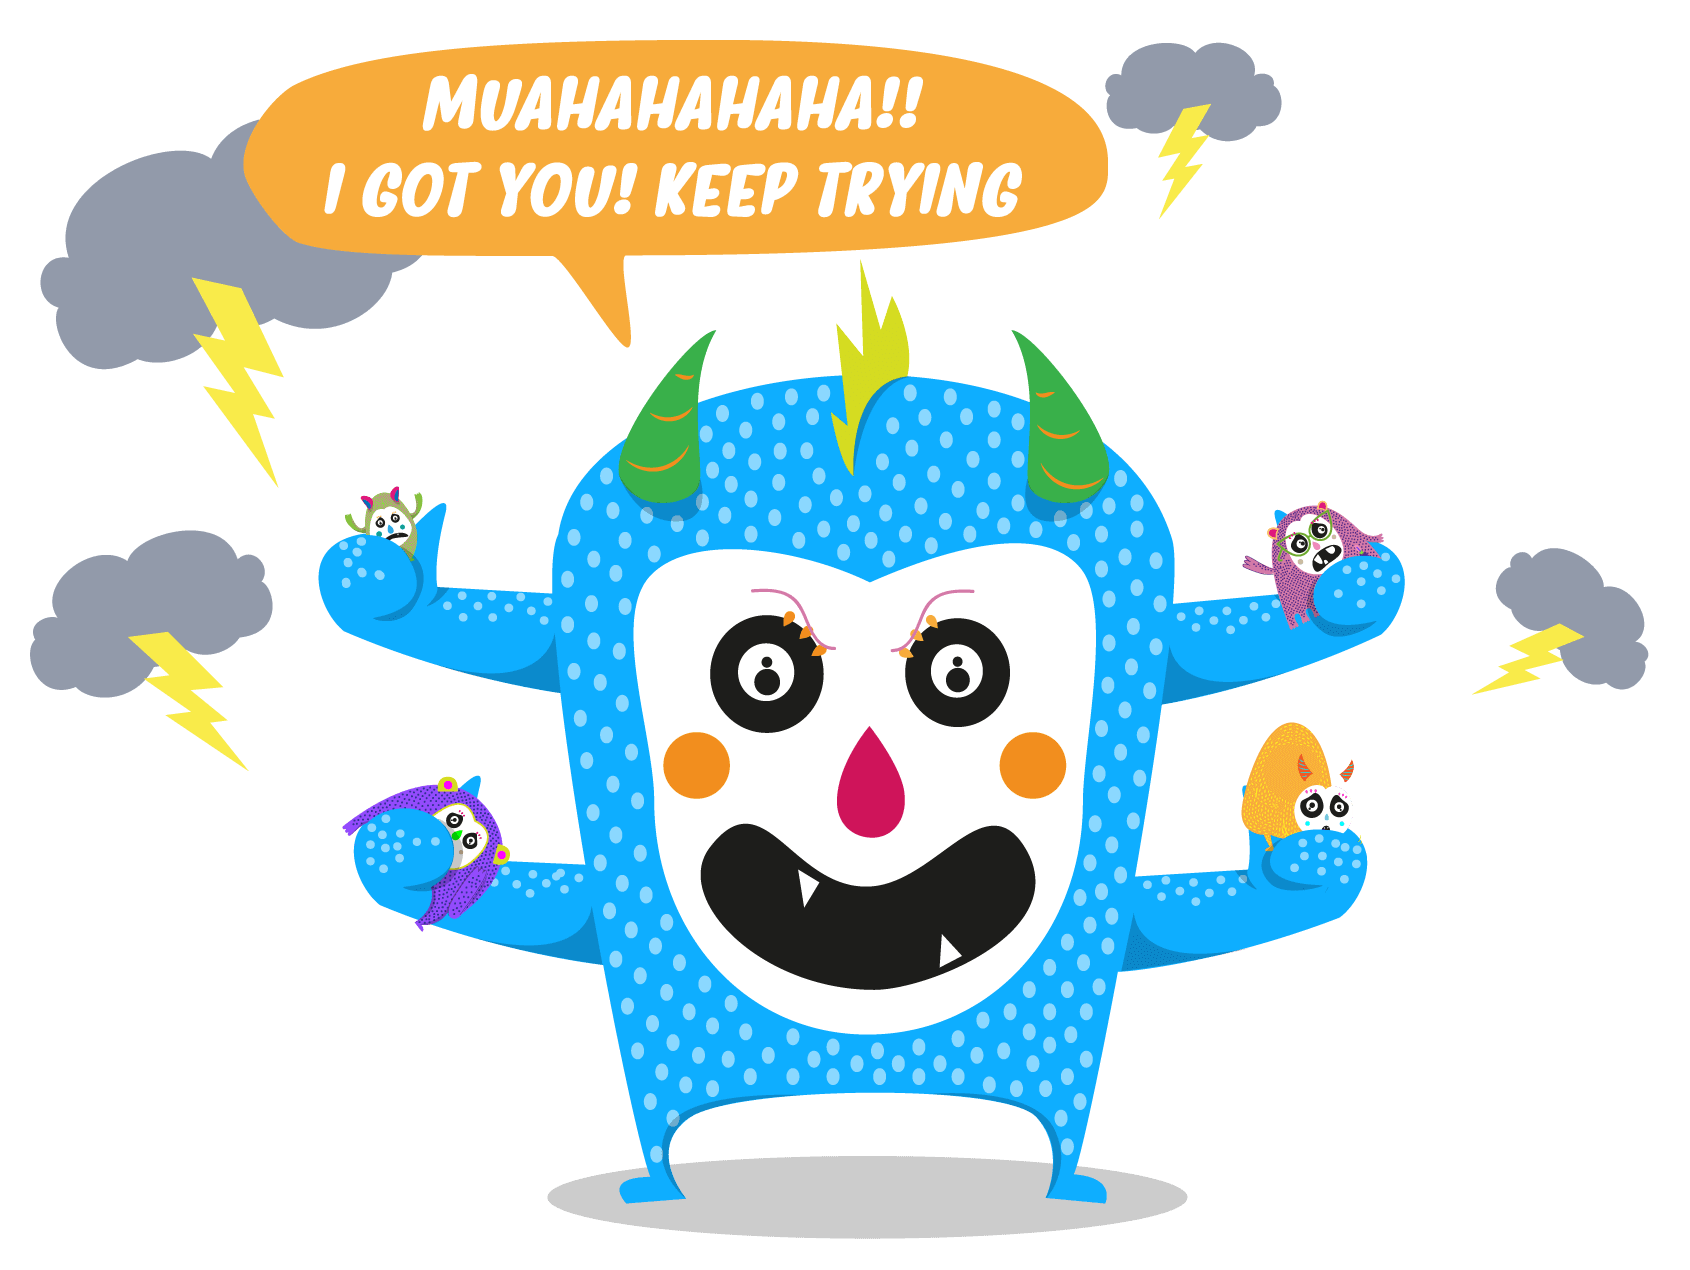
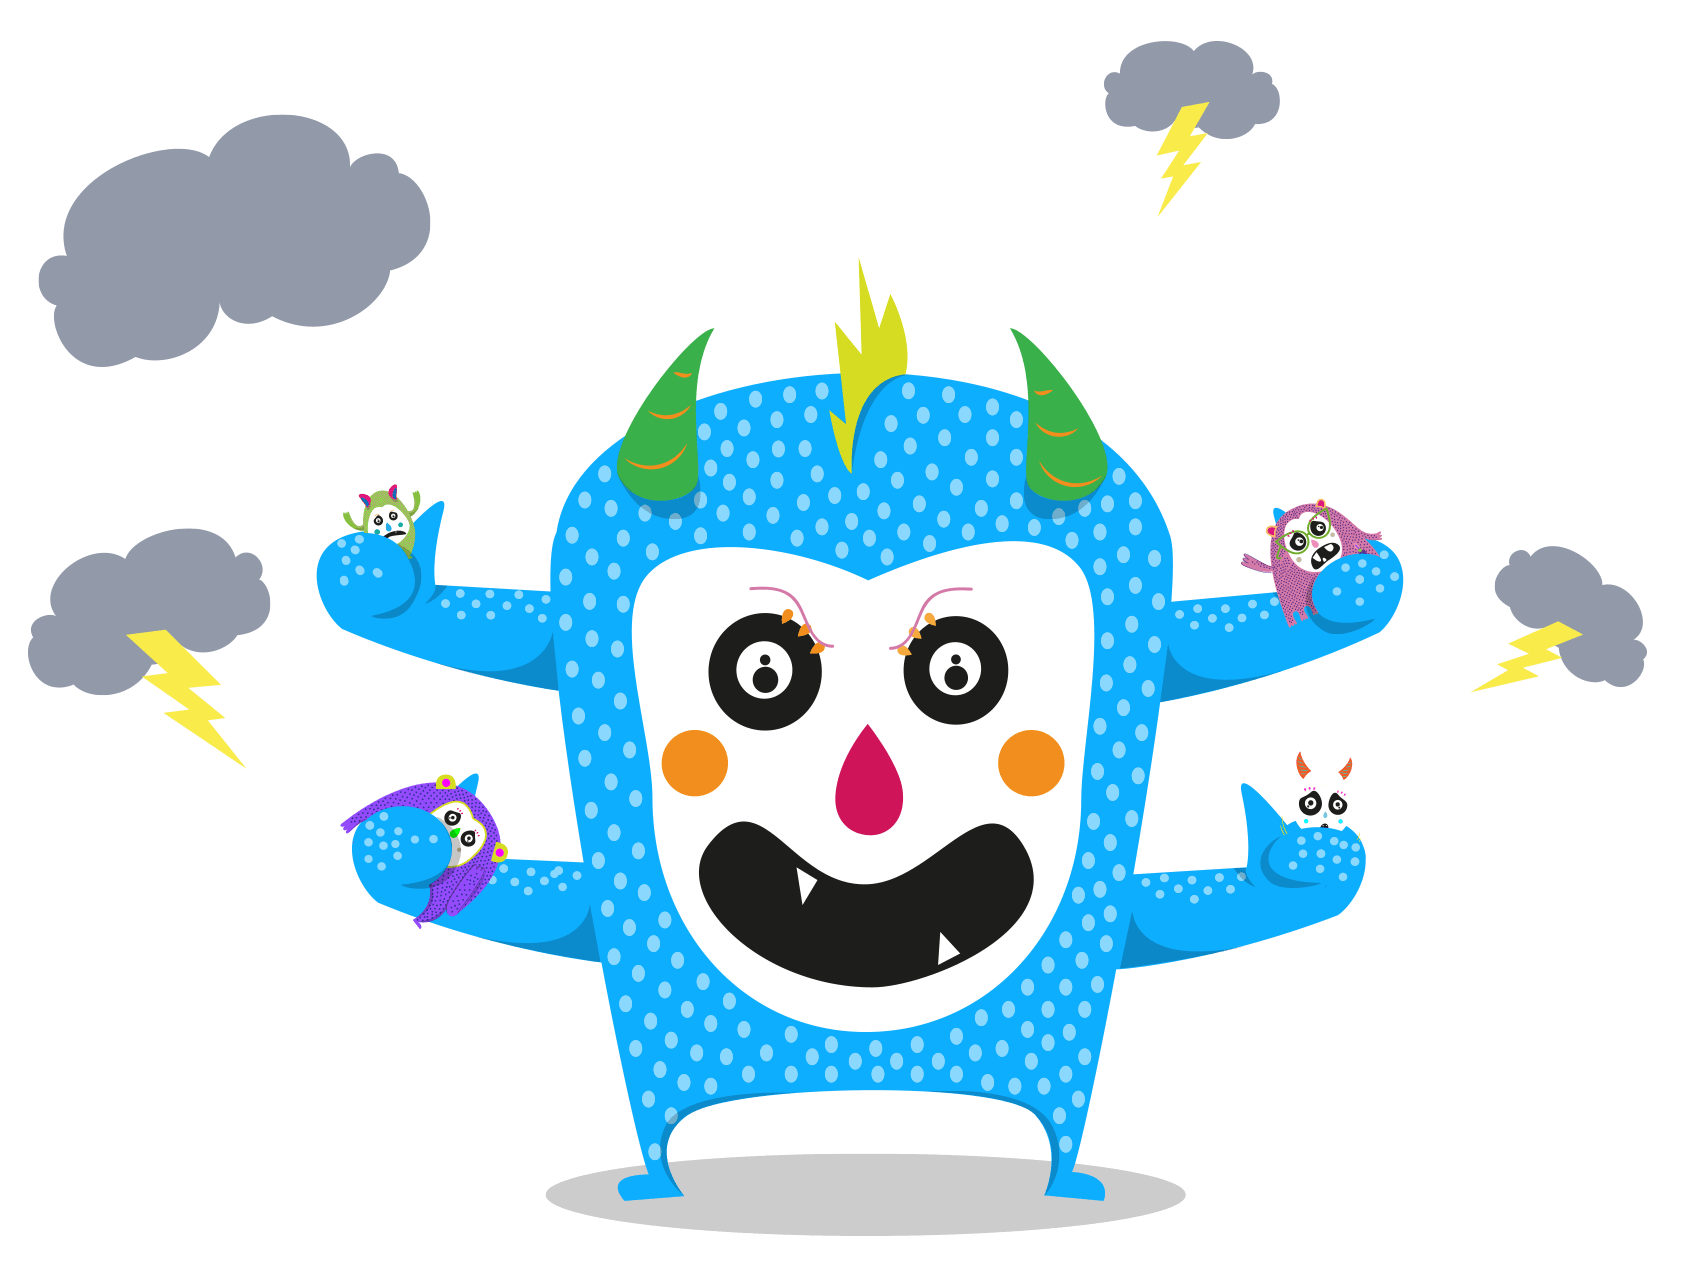
- Challenge Fail Modifications WIP

diff --git a/style.js b/style.js
@@ -1143,7 +1143,8 @@ oxfordFlippedApp.text = {
 	continue : 'Click on the arrow to continue',
 	premiumButton : 'Más recursos en Oxford Premium. ¡Accede ya!',
 	nomarketplaceresource: 'No hay ningún elemento que mostrar',
-	keepworking: 'Don’t worry, keep working to win stars!'
+	keepworking: 'Don’t worry, keep working to win stars!',
+	keeptrying : 'MUAHAHAHAHA!! I GOT YOU! Try again to win stars.'
 }
 
 
@@ -3095,7 +3096,7 @@ oxfordFlippedApp.activityFinalScreenTest = function(currentSection) {
 					if (isChallenge) {
 						var finalSlideBackground = $lastSlide.find('.image_slide').attr('src'),
 								customAnimation = '<div id="lightnings"><div class="box-one"><div class="lightning-one"></div></div><div class="box-two"><div class="lightning-two"></div></div><div class="box-three"><div class="lightning-three"></div></div><div class="box-four"><div class="lightning-four"></div></div></div>',
-								finalSlideContent = '<div id="oxfl-final-slide">'+customAnimation+'<div class="oxfl-final-slide-stars" id="oxfl-final-slide-stars"></div><div class="oxfl-final-slide-fail-buttons"><button class="oxfl-button-bubble oxfl-button-bubble-2 oxfl-js-go-to-start">'+oxfordFlippedApp.text.tryagain+'</button><div class="oxfl-separate-text">'+oxfordFlippedApp.text.or+'</div><button class="oxfl-button-bubble oxfl-button-bubble-3 oxfl-js-close-iframe-inside">'+oxfordFlippedApp.text.exit+'</button></div></div>';
+								finalSlideContent = '<div id="oxfl-final-slide">'+customAnimation+'<div class="oxfl-final-slide-stars" id="oxfl-final-slide-stars"></div><div class="oxfl-bubble-challenge-fail"><span> '+ oxfordFlippedApp.text.keeptrying +' </span></div><div class="oxfl-final-slide-fail-buttons"><button class="oxfl-button-bubble oxfl-button-bubble-2 oxfl-js-go-to-start">'+oxfordFlippedApp.text.tryagain+'</button><div class="oxfl-separate-text">'+oxfordFlippedApp.text.or+'</div><button class="oxfl-button-bubble oxfl-button-bubble-3 oxfl-js-close-iframe-inside">'+oxfordFlippedApp.text.exit+'</button></div></div>';
 						if (finalSlideBackground != '') {
 							$lastSlide.css('background-image', 'url('+finalSlideBackground+')').find('.slide_aux').hide();
 						}

diff --git a/style.css b/style.css
@@ -3736,6 +3736,36 @@ body.body_clase.view-mode #actividad .oxfl-bubble-final-ko {
     left: -20px;
     transform: rotate(-45deg);
     transform-origin: 0 0; }
+body.body_clase.view-mode #actividad .oxfl-bubble-challenge-fail {
+  background: #FBB03B;
+  display: inline-flex;
+  vertical-align: middle;
+  justify-content: center;
+  flex-direction: column;
+  text-align: center;
+  color: #ffffff;
+  font-family: "Myfrida", sans-serif;
+  font-size: 31px;
+  line-height: 1em;
+  font-weight: bold;
+  font-style: italic;
+  border-radius: 40px;
+  max-width: 300px;
+  height: auto;
+  padding: 20px; }
+  body.body_clase.view-mode #actividad .oxfl-bubble-challenge-fail::before {
+    content: '';
+    display: block;
+    width: 0;
+    height: 0;
+    border-left: 20px solid transparent;
+    border-right: 20px solid transparent;
+    border-top: 20px solid #FBB03B;
+    position: absolute;
+    bottom: -20px;
+    left: -20px;
+    transform: rotate(-45deg);
+    transform-origin: 0 0; }
 body.body_clase.view-mode.oxfl-final-slide-on .content-wrapper {
   padding-top: 0;
   padding-bottom: 0; }

diff --git a/scss/pages/_activities_final_2_test.scss b/scss/pages/_activities_final_2_test.scss
@@ -135,6 +135,40 @@ body.body_clase.view-mode {
         transform-origin: 0 0;
       }
     }
+
+    .oxfl-bubble-challenge-fail {
+      background: $color_6;
+      display: inline-flex;
+      vertical-align: middle;
+      justify-content: center;
+      flex-direction: column;
+      text-align: center;
+      color: $negative_color;
+      font-family: $font_family_2;
+      font-size: 31px;
+      line-height: 1em;
+      font-weight: bold;
+      font-style: italic;
+      border-radius: 40px;
+      max-width: 300px;
+      height: auto;
+      padding: 20px;
+      &::before {
+        content: '';
+        display: block;
+        width: 0;
+        height: 0;
+        border-left: 20px solid transparent;
+        border-right: 20px solid transparent;
+        border-top: 20px solid $color_6;
+        position: absolute;
+        bottom: -20px;
+        left: -20px;
+        transform: rotate(-45deg);
+        transform-origin: 0 0;
+      }
+    }
+
   }
 
   &.oxfl-final-slide-on {
